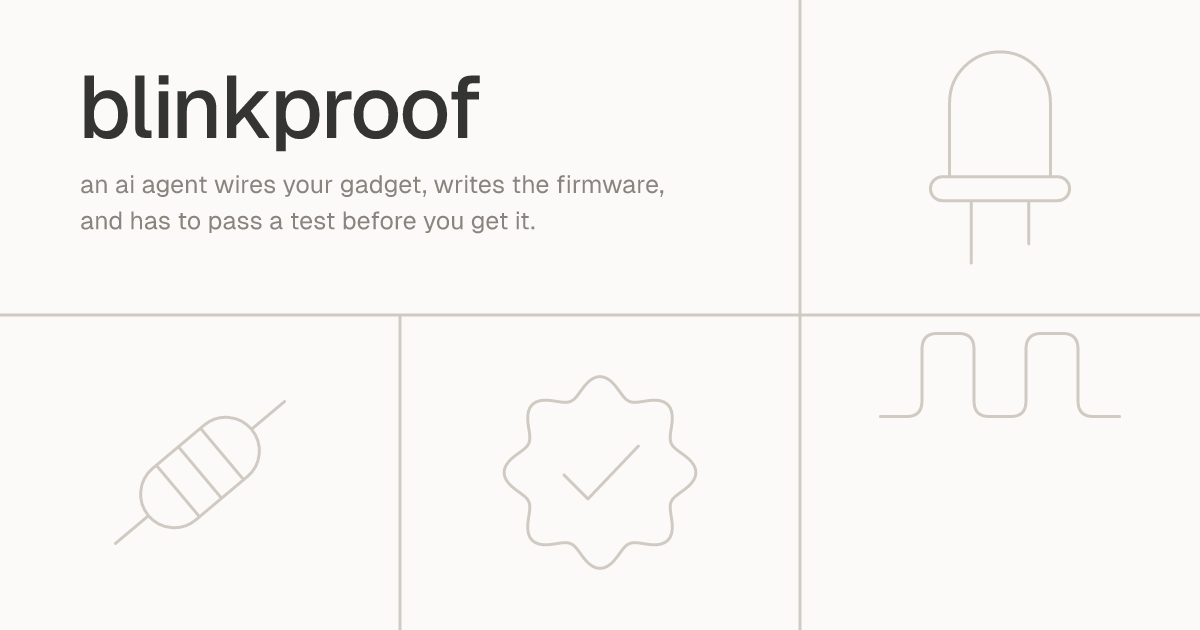
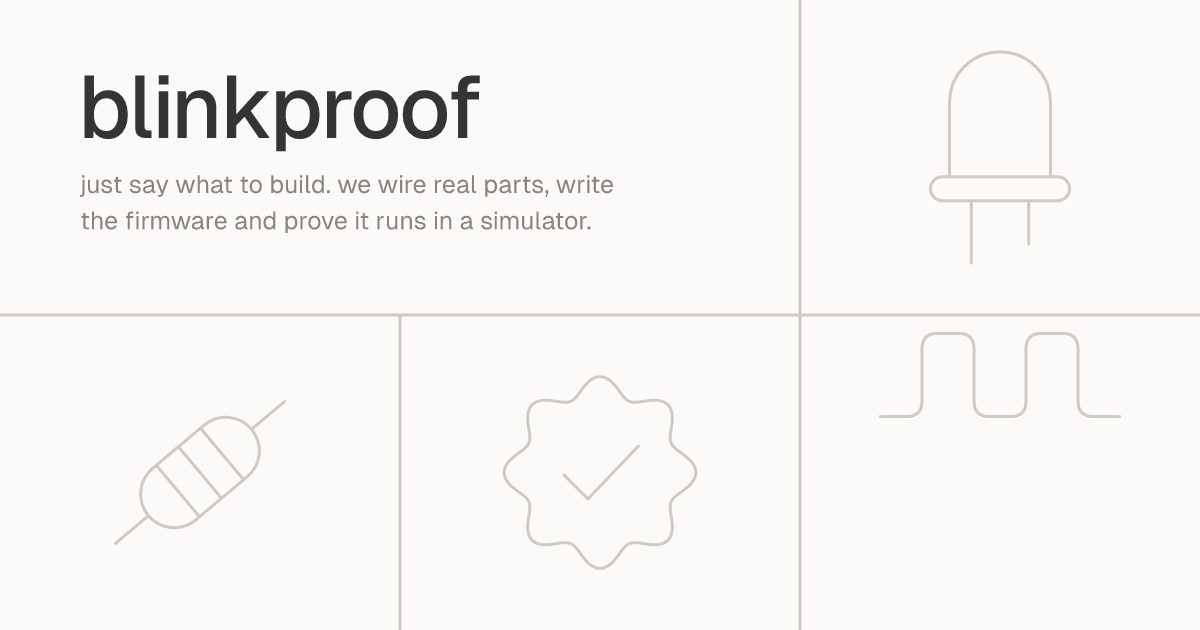
fix: new text on the og card (#84)

Changed region(s): [[0.0617, 0.2714, 0.555, 0.3619]]

diff --git a/web/index.html b/web/index.html
@@ -8,13 +8,13 @@
     <meta property="og:type" content="website" />
     <meta property="og:url" content="https://blinkproofs.xyz" />
     <meta property="og:title" content="blinkproof" />
-    <meta property="og:description" content="an ai agent wires your gadget, writes the firmware, and has to pass a test before you get it." />
+    <meta property="og:description" content="just say what to build. we wire real parts, write the firmware and prove it runs in a simulator." />
     <meta property="og:image" content="https://blinkproofs.xyz/og.png" />
     <meta property="og:image:width" content="1200" />
     <meta property="og:image:height" content="630" />
     <meta name="twitter:card" content="summary_large_image" />
     <meta name="twitter:title" content="blinkproof" />
-    <meta name="twitter:description" content="an ai agent wires your gadget, writes the firmware, and has to pass a test before you get it." />
+    <meta name="twitter:description" content="just say what to build. we wire real parts, write the firmware and prove it runs in a simulator." />
     <meta name="twitter:image" content="https://blinkproofs.xyz/og.png" />
     <link rel="icon" href="/favicon.ico" sizes="any" />
     <link rel="icon" href="/favicon.svg" type="image/svg+xml" />
